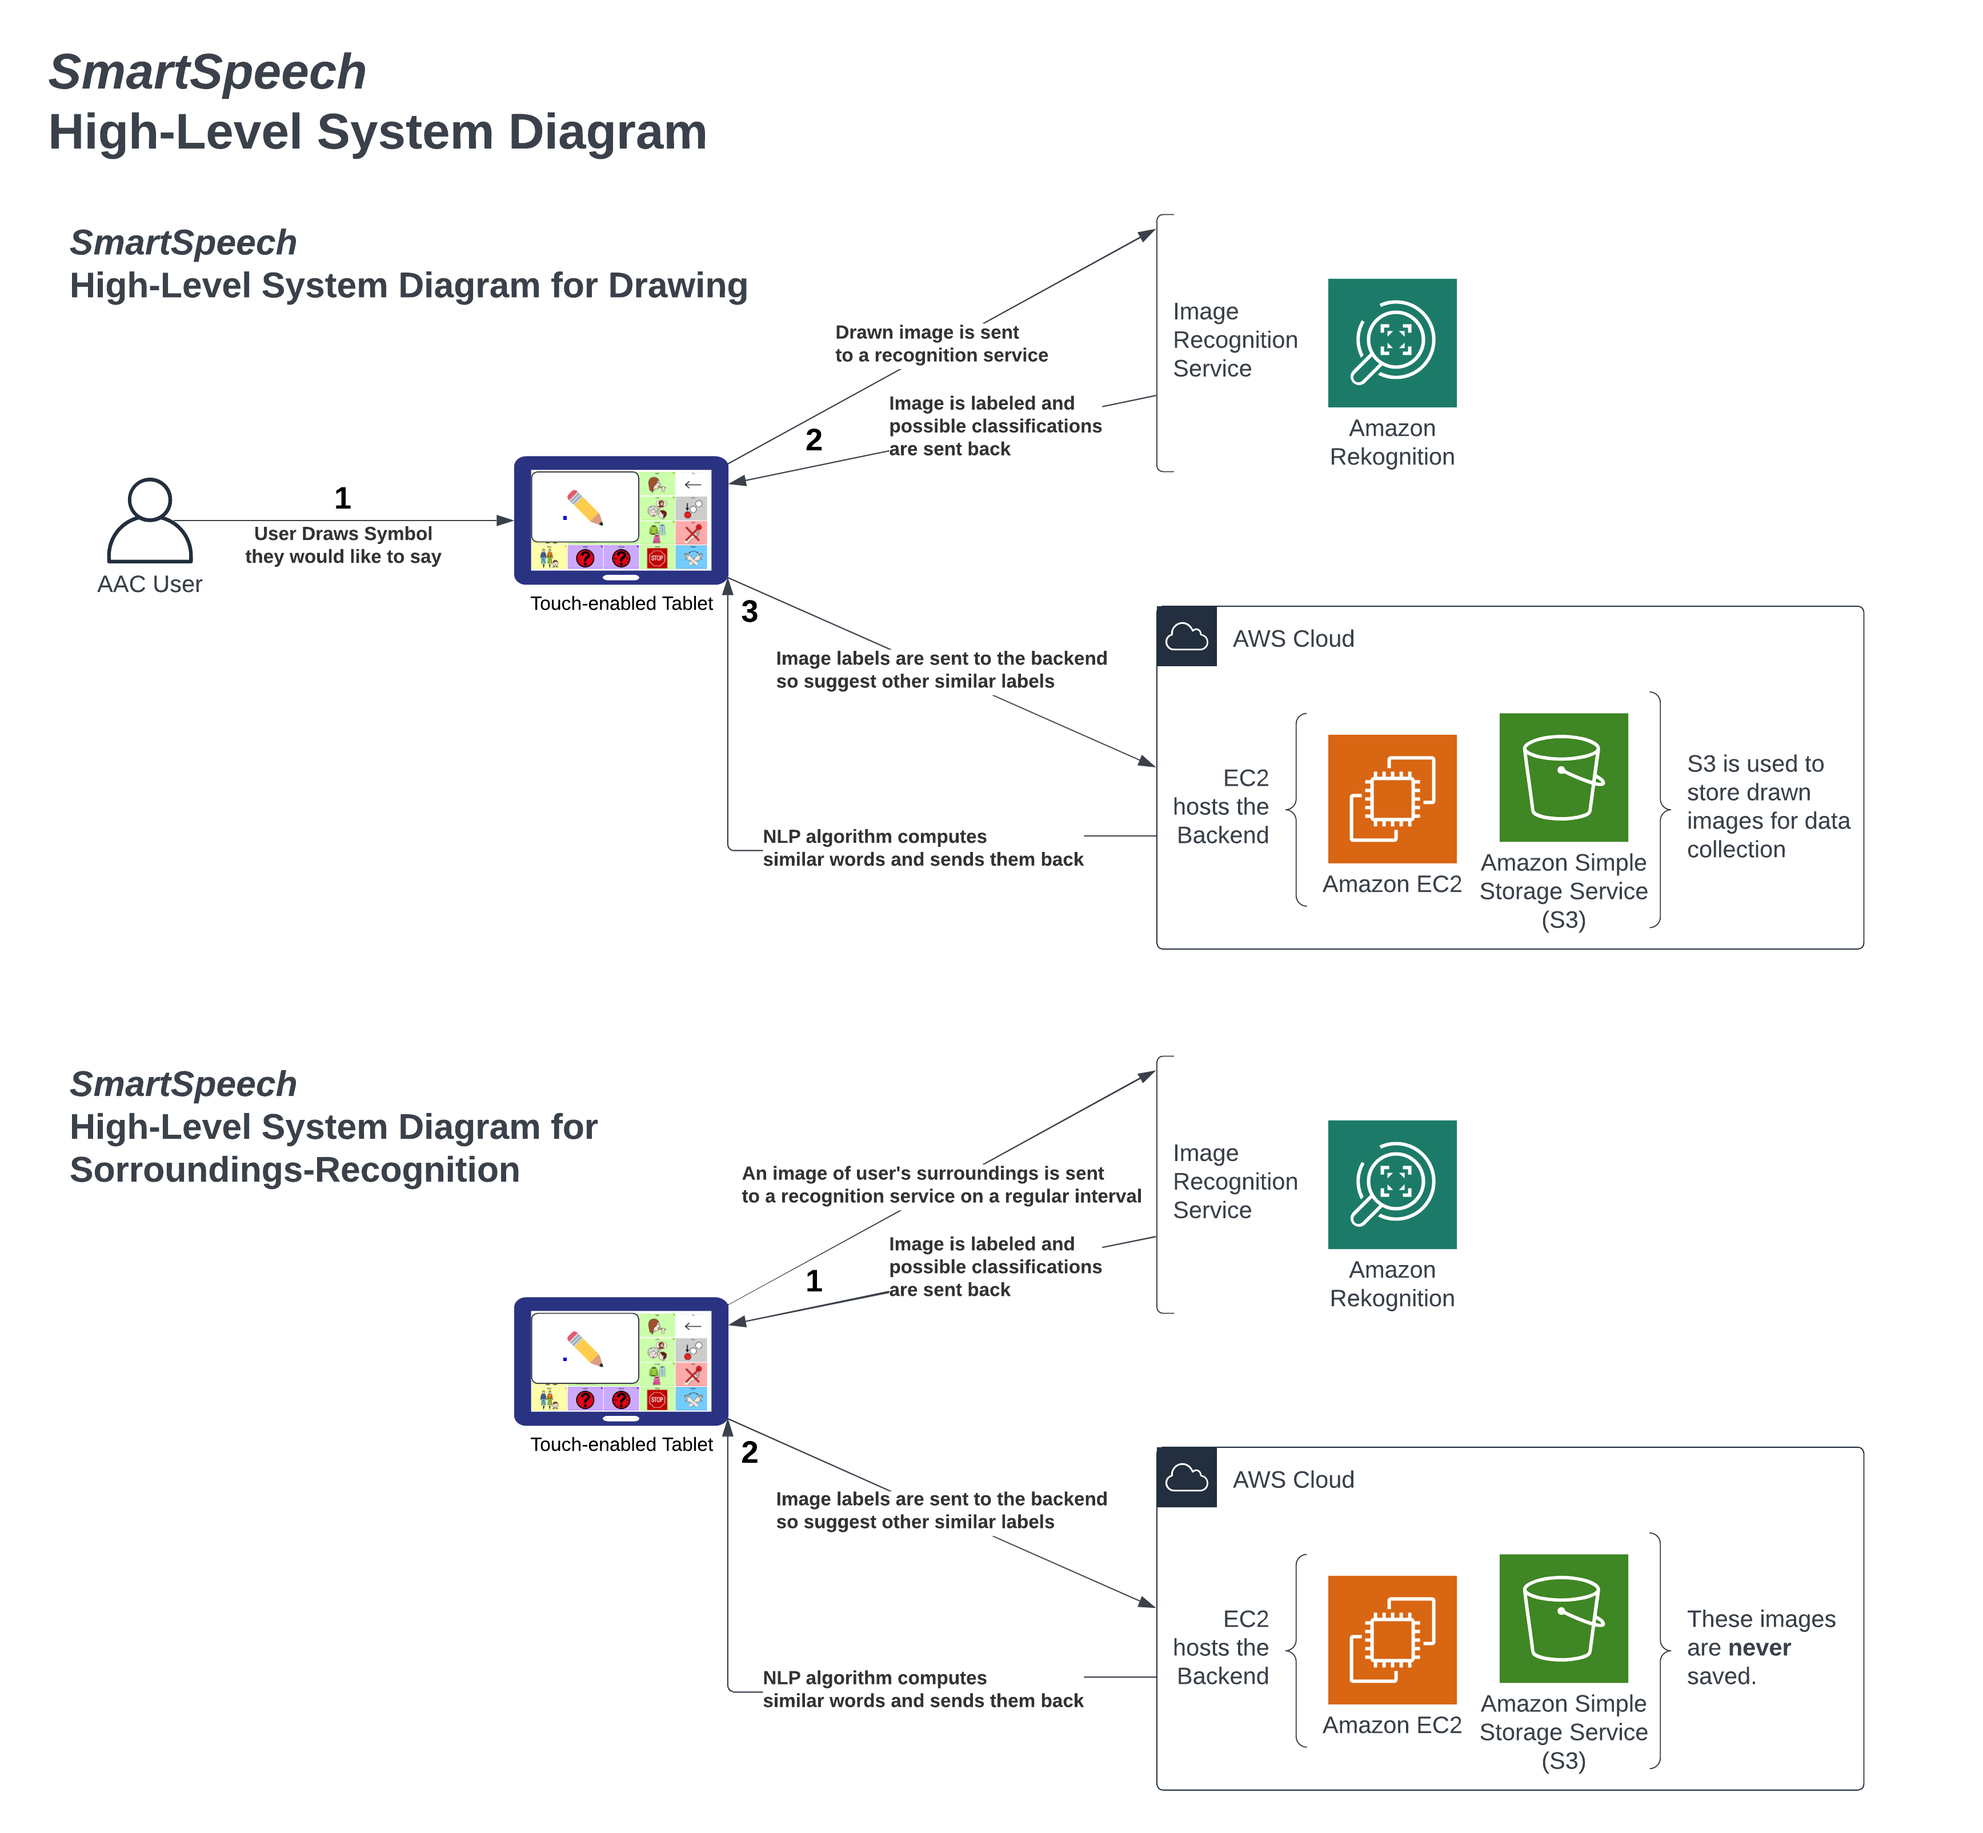
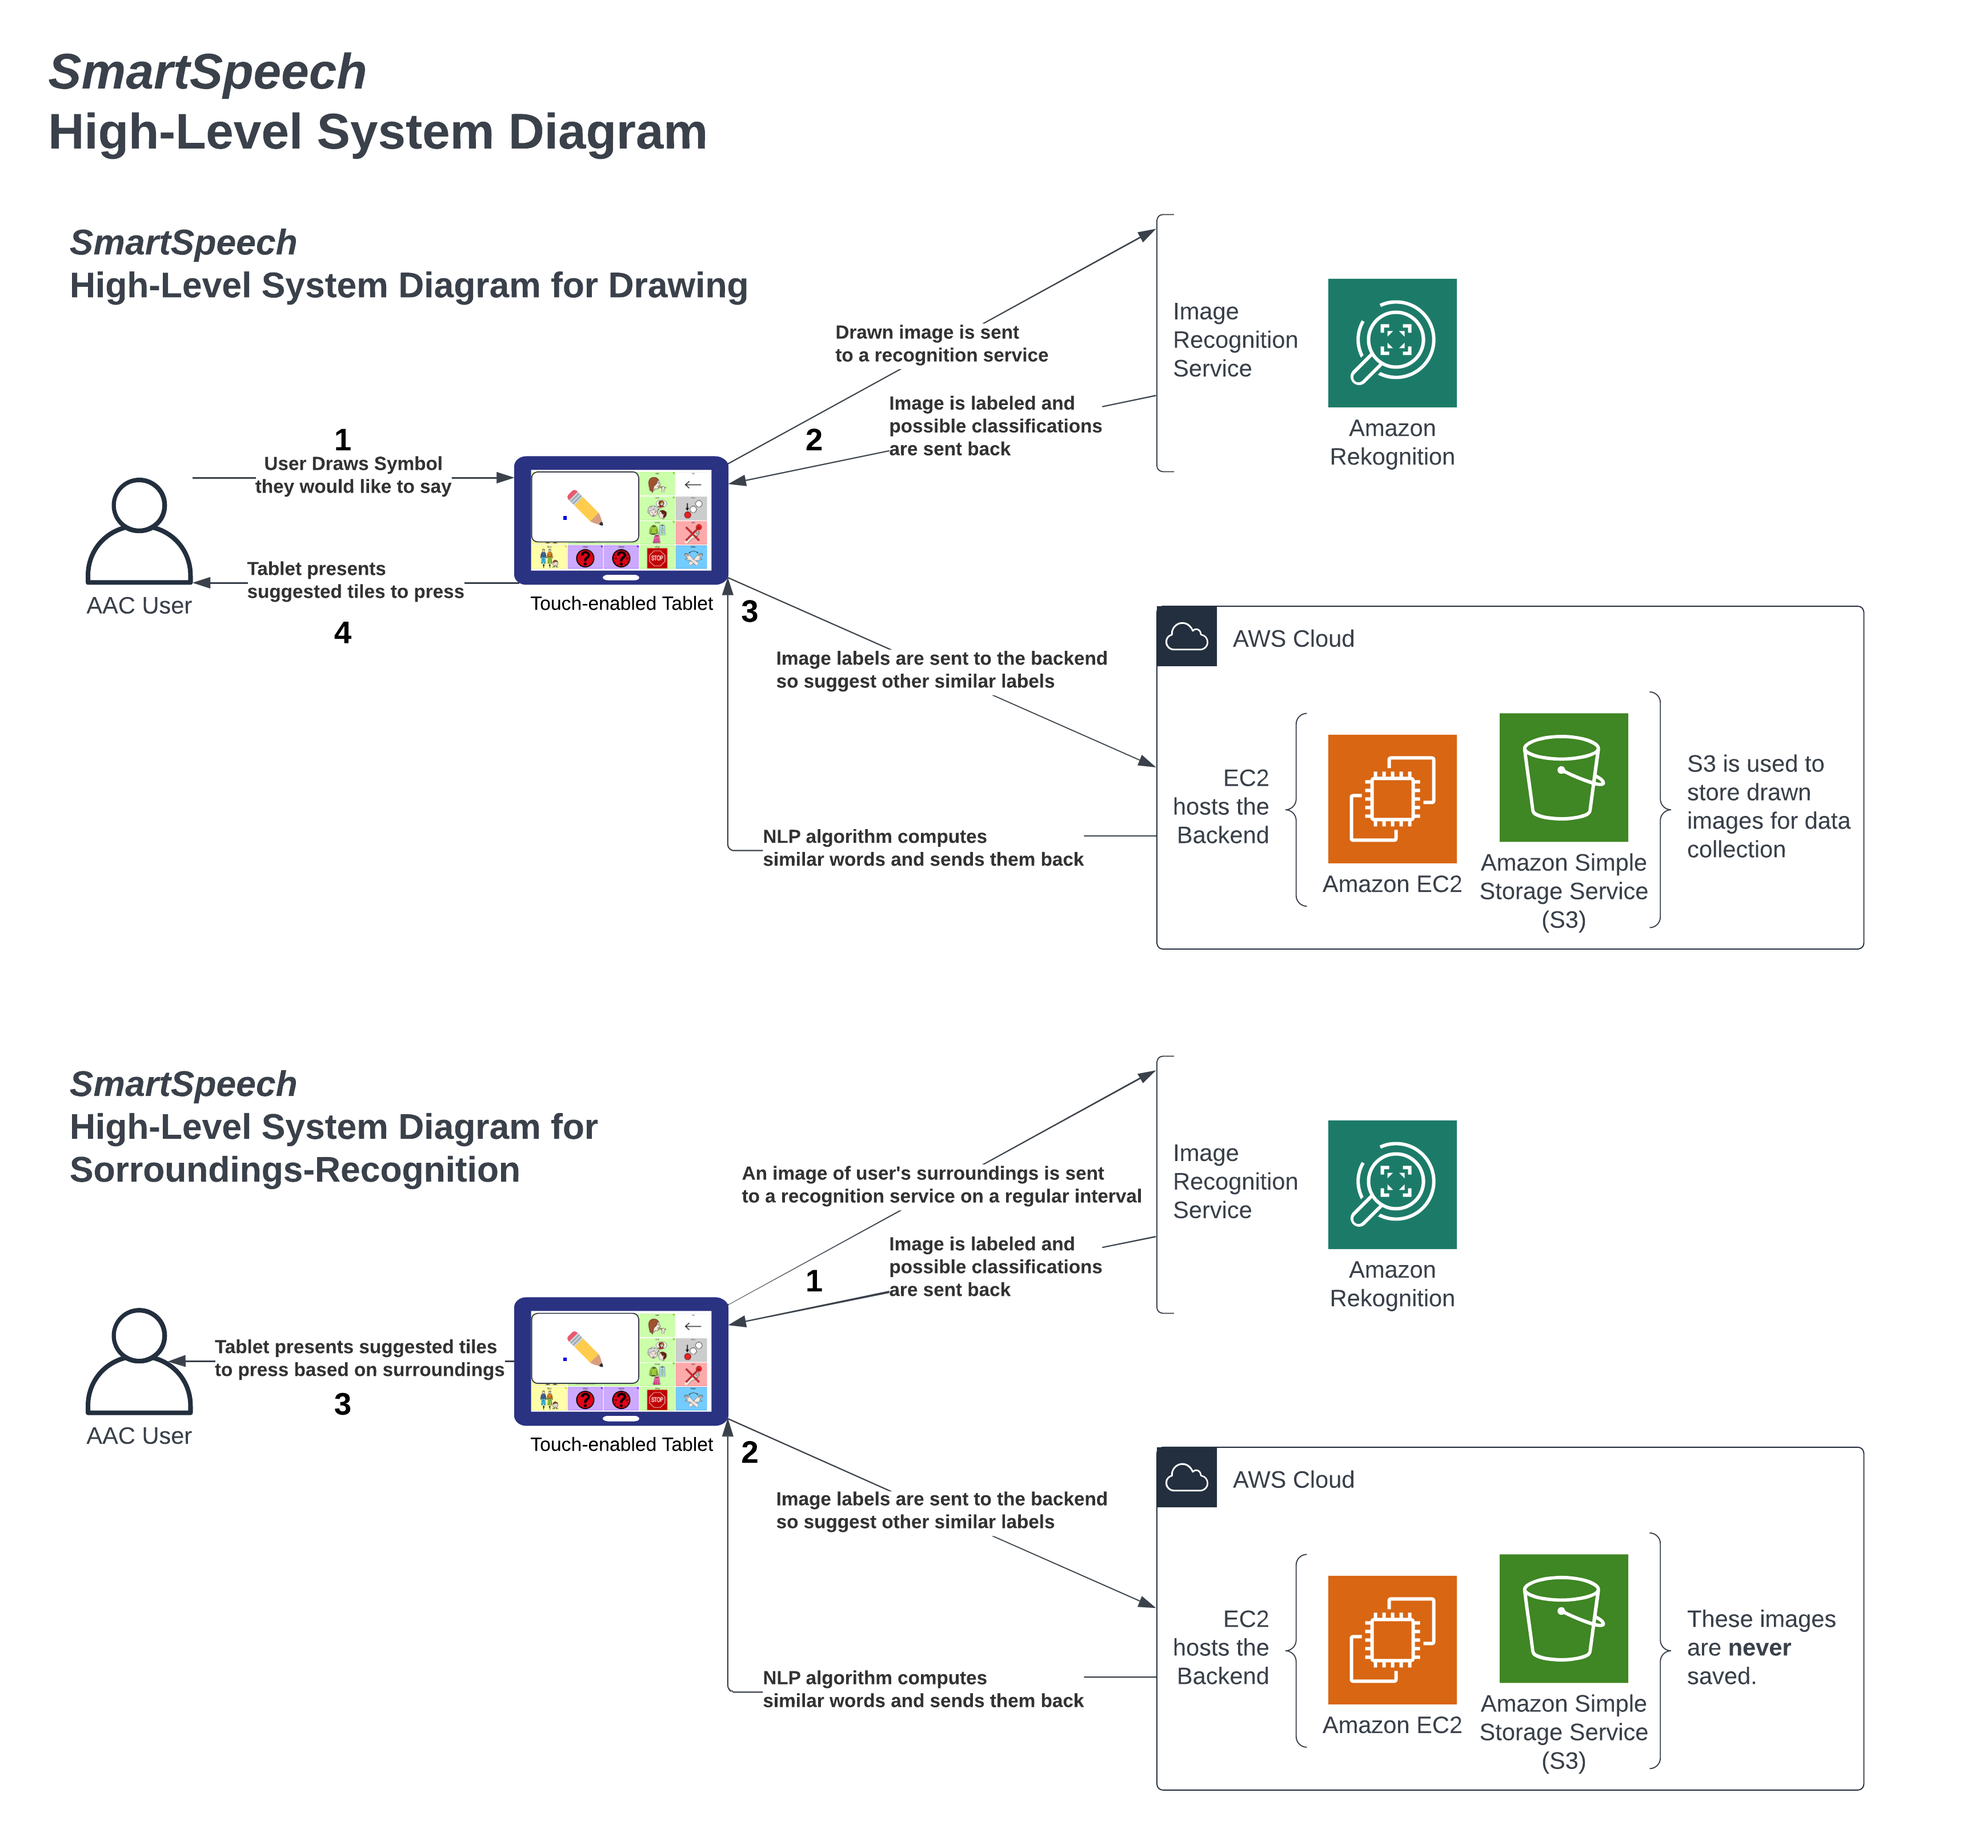
update image to reflect tablet to user interaction; added caption

Changed region(s): [[0.0311, 0.2494, 0.2178, 0.3429], [0.0311, 0.717, 0.2489, 0.7793]]

diff --git a/documentation/docs/requirements/system-block-diagram.md b/documentation/docs/requirements/system-block-diagram.md
@@ -6,7 +6,13 @@ sidebar_position: 2
 
 ![system_block_diagram](/img/SmartSpeech_High-Level_System_Diagram.png)
 
+Figure 1: This image describes the High-Level System Diagram for Smart Speech. Two diagrams are presented. The first diagram descibes the flow for a user-drawn image[^1] while the second diagram shows the flow for the recognition tasks generated by taking images of a user's surroundings at a predefined interval. Both flows use a image recognition service paired with a NLP model to not only suggest the correct tile to press but also similar tiles to speed up conversations.
+
+[^1]: Notice only user drawn images are saved for future use. Images of a user's surroundings are NOT saved.
+
+<!--
 Figure 1: In this image, calls going into the the AWS Network (to backend servers) have blue arrows. Any traffic with an egress or returning destination is labeled a shade of orange. User inputs have black arrows. This image shows a drawing recognition request to backend. The backend will suggest a list of symbols to use.
+-->
 
 <!--
 > In this image, calls going into the the AWS Network (to backend servers) have orange arrows. Any traffic with an egress destination is labeled a shade of blue. User inputs have black arrows.
